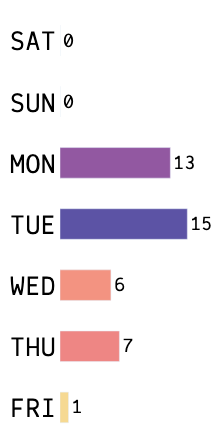
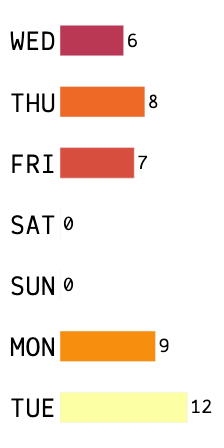
create continuous process rather than load/reload

diff --git a/tinkycare.py b/tinkycare.py
@@ -70,6 +70,23 @@ SATURATED_PALETTE = (
 
 MID_PALETTE = tuple(sum(x) // 2 for x in zip(DESATURATED_PALETTE, SATURATED_PALETTE))
 
+DEFAULT_DATA = {
+    "tomato": 0,
+    "cycle": "still working",
+    "start_time": int(dt.utcnow().timestamp()) % 86400,
+    "pomodoro_mode": True,
+    "reset": False,
+    "tweet": "",
+    "event_counter": 0,
+    "event": {
+        "name": 'No events scheduled.',
+        "location": None,
+        "start": None,
+        "end": None,
+        "active": False,
+    },
+}
+
 
 def save_status(data, PATH):
     with open(PATH + "/assets/status.json", "w") as fh:
@@ -127,9 +144,6 @@ def check_display(data, PATH):
             data["event"] = event
             canvas = make_canvas(data, True, PATH)
             rgb_to_inky(canvas)
-            save_status(data, PATH)
-        else:
-            save_status(data, PATH)
             return
     elif (
         reset is True
@@ -146,40 +160,18 @@ def check_display(data, PATH):
         data["event"] = event
         canvas = make_canvas(data, False, PATH)
         rgb_to_inky(canvas)
-        save_status(data, PATH)
-    else:
-        save_status(data, PATH)
         return
 
 
-def run_tinky_care():
-    now = int(dt.utcnow().timestamp()) % 86400
-    # default start values for pomodoro
-    default_data = {
-        "tomato": 0,
-        "cycle": "still working",
-        "start_time": now,
-        "pomodoro_mode": True,
-        "reset": True,
-        "tweet": "",
-        "event_counter": 0,
-        "event": {
-            "name": 'No events scheduled.',
-            "location": None,
-            "start": None,
-            "end": None,
-            "active": False,
-        },
-    }
-    PATH = os.path.dirname(os.path.abspath(__file__))
-    if os.path.exists(PATH + "/assets/status.json"):
-        with open(PATH + "/assets/status.json", "r") as fh:
-            data = json.load(fh)
-            data["event_counter"] += 1
-            check_display(data, PATH)
-    else:
-        check_display(default_data, PATH)
+# initialize data
+data = DEFAULT_DATA
 
+
+def run_tinky_care():
+    while True:
+        data["event_counter"] += 1
+        check_display(data)
+        time.sleep(60)
 
 if __name__ == "__main__":
     run_tinky_care()

diff --git a/bots/orgbot.py b/bots/orgbot.py
@@ -14,7 +14,7 @@ def create_org_bar_chart(days, task_count):
                            text=task_count, textposition='outside',
                            textangle=0,
                            textfont=dict(color='black'),
-                           marker=dict(color=task_count, colorscale='rainbow')
+                           marker=dict(color=task_count, colorscale='inferno')
                            ))
 
     fig['layout'].update(width=224, height=448, plot_bgcolor='#fff',
